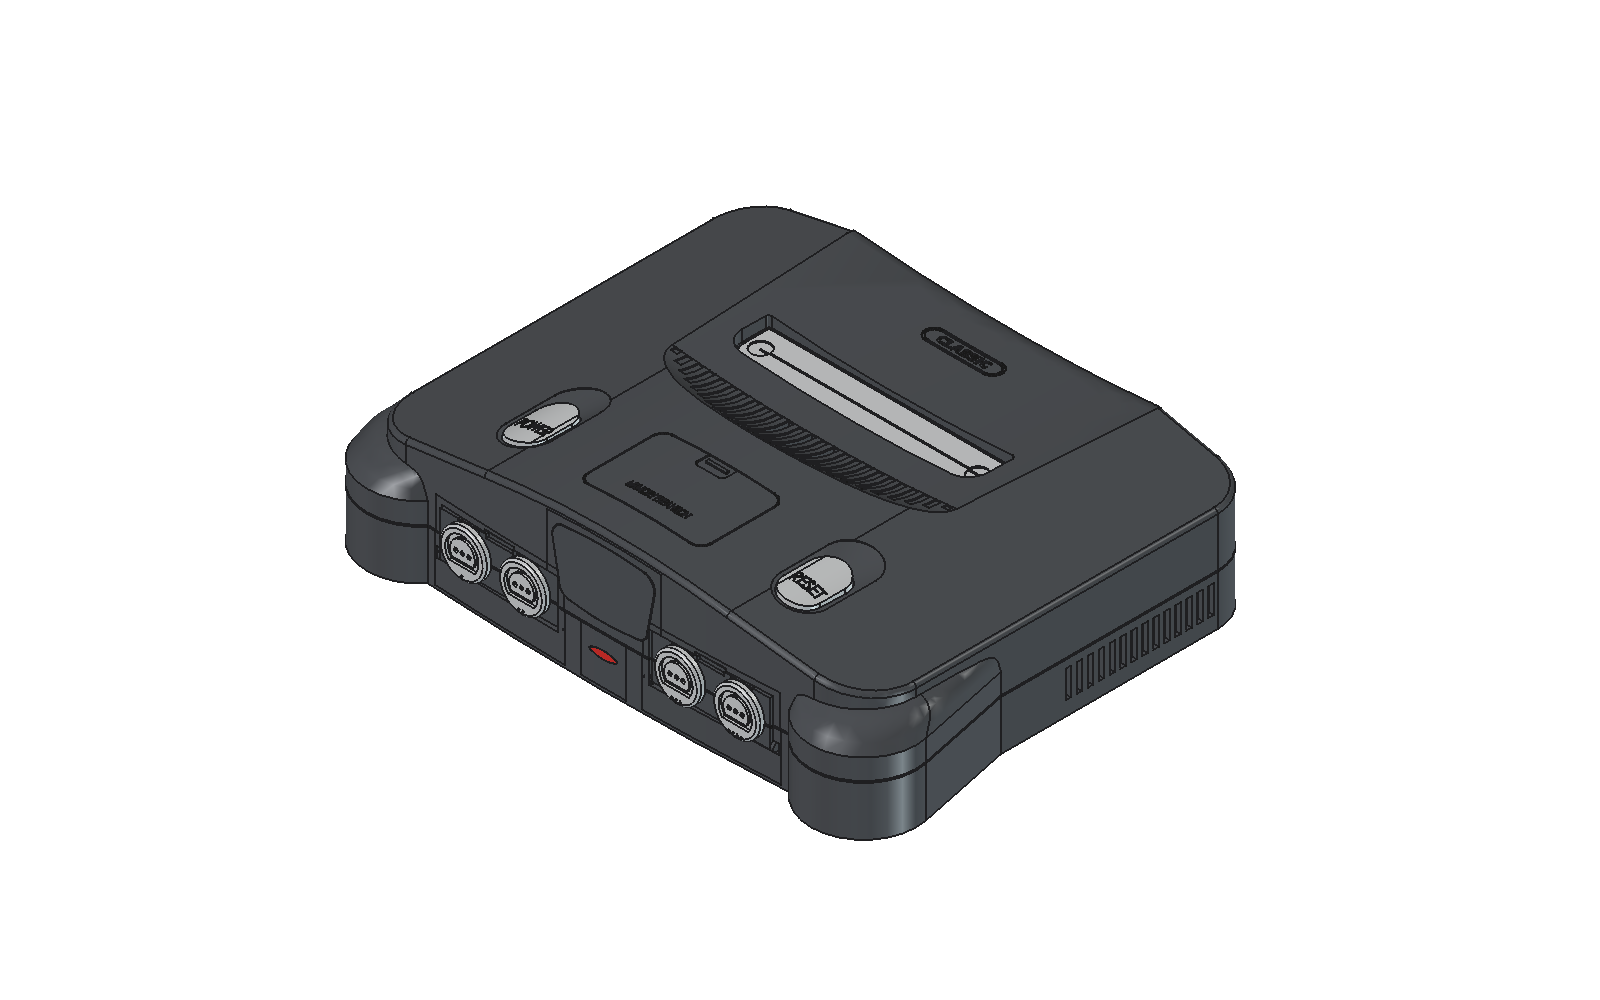
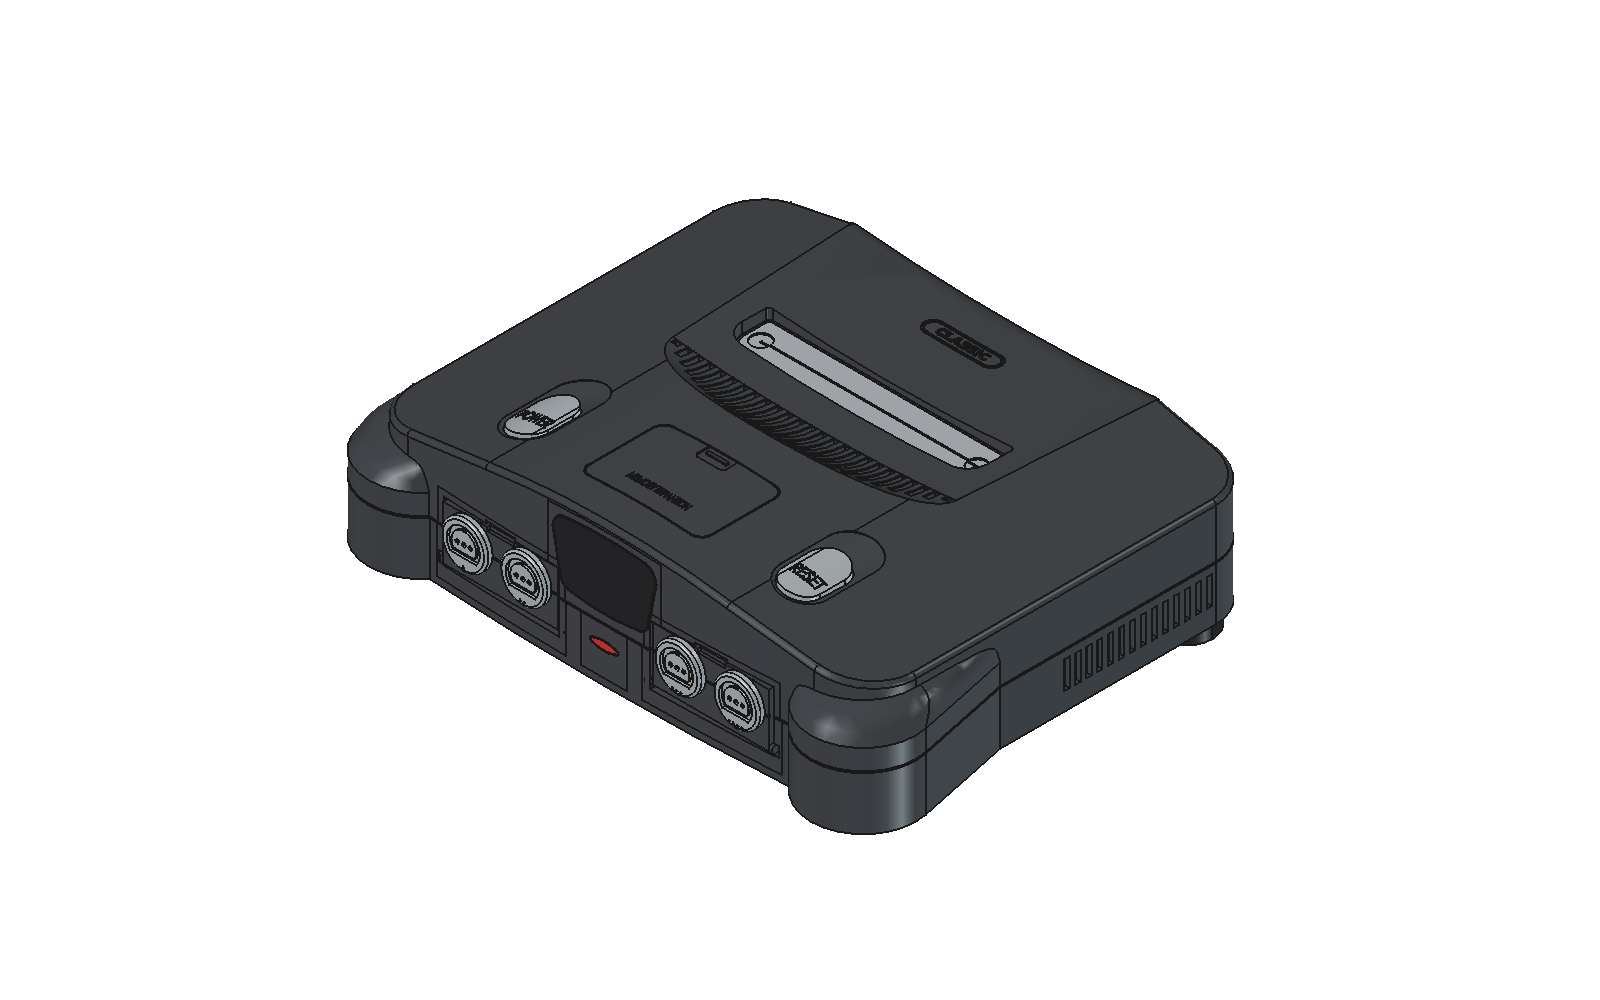
docs(cad): re-render front, rear and print-plate pictures; N64_PUBLIC forces CLASSIC
The README pictures predated the flat tub bottom, the split duct and the paint allowance. The
first re-render from a local export carried the owner's private plaque lettering (cad/local/),
caught on review before committing. N64_PUBLIC=1 now forces the public CLASSIC lettering for
anything rendered for the published repo; CI never has cad/local/, so releases were already
clean. Lesson recorded in AGENTS.md.

Gate green, 164 rows.

diff --git a/lib/part/shared/n64_text.py b/lib/part/shared/n64_text.py
@@ -11,6 +11,7 @@ Pure native CadQuery (`polyline` -> `Face.makeFromWires` -> `extrudeLinear`), ze
 """
 
 import importlib.util
+import os
 from pathlib import Path
 
 import cadquery as cq
@@ -1074,7 +1075,9 @@ _LOCAL_GLYPHS = Path(__file__).resolve().parents[3] / "local" / "nintendo_glyphs
 
 
 def _local_glyphs() -> tuple[GlyphLoops, ...] | None:
-    if not _LOCAL_GLYPHS.is_file():
+    # N64_PUBLIC=1 forces the public CLASSIC lettering even on the owner's machine: anything
+    # rendered for the published repo (README pictures) must never carry the private letters.
+    if os.environ.get("N64_PUBLIC") == "1" or not _LOCAL_GLYPHS.is_file():
         return None
     spec = importlib.util.spec_from_file_location("local_nintendo_glyphs", _LOCAL_GLYPHS)
     if spec is None or spec.loader is None:

diff --git a/AGENTS.md b/AGENTS.md
@@ -117,3 +117,12 @@ Also re-run `../frontend/run check` from the repo root before finishing so repo-
 - **Measuring finds what constants hide.** On the solids: the light pipe's tightest gap is
   0.06 mm (the datum claimed 0.10), the RJ45 jack is 1.7 mm from the wall (constants said 3.0),
   and the M3x12 corner screws engaged only 2.8 mm of their insert (now M3x14, J01_SCREW).
+
+## Lessons (published pictures, 2026-11-14)
+
+- On the owner's machine `cad/local/` holds the owner's own plaque lettering, and every local build
+  engraves it. A README re-render from a local export came out with the private lettering on
+  the plaque; it was caught by looking before committing. Anything rendered for the published
+  repo is built with **`N64_PUBLIC=1`**, which forces the public CLASSIC lettering
+  (`part/shared/n64_text._local_glyphs`). CI never has `cad/local/`, so released files are
+  public by construction. Look at every picture before committing it.
